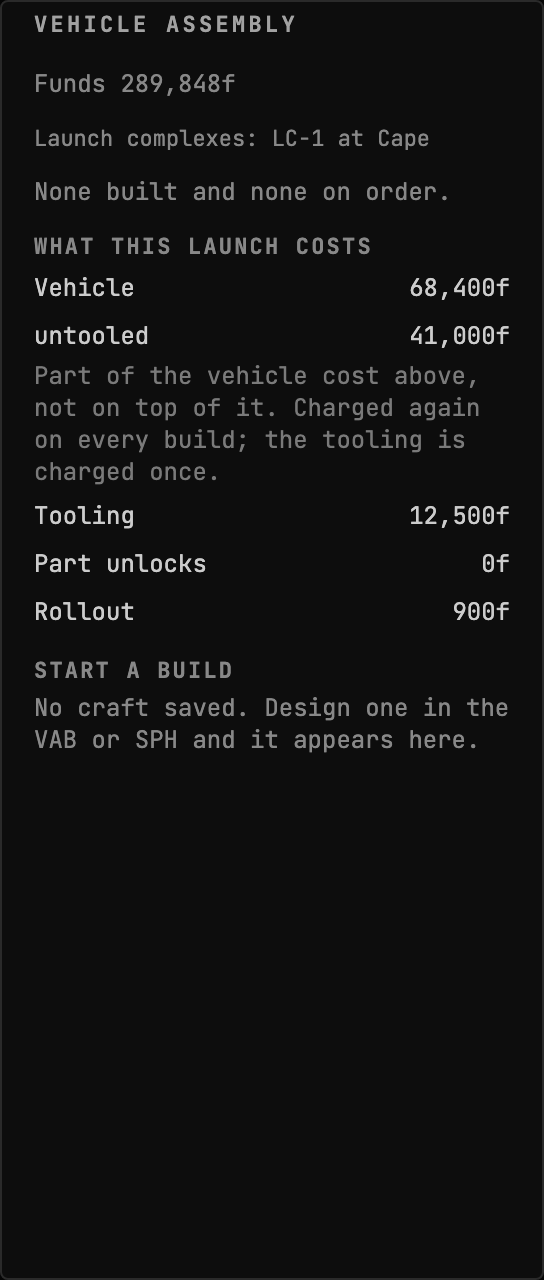
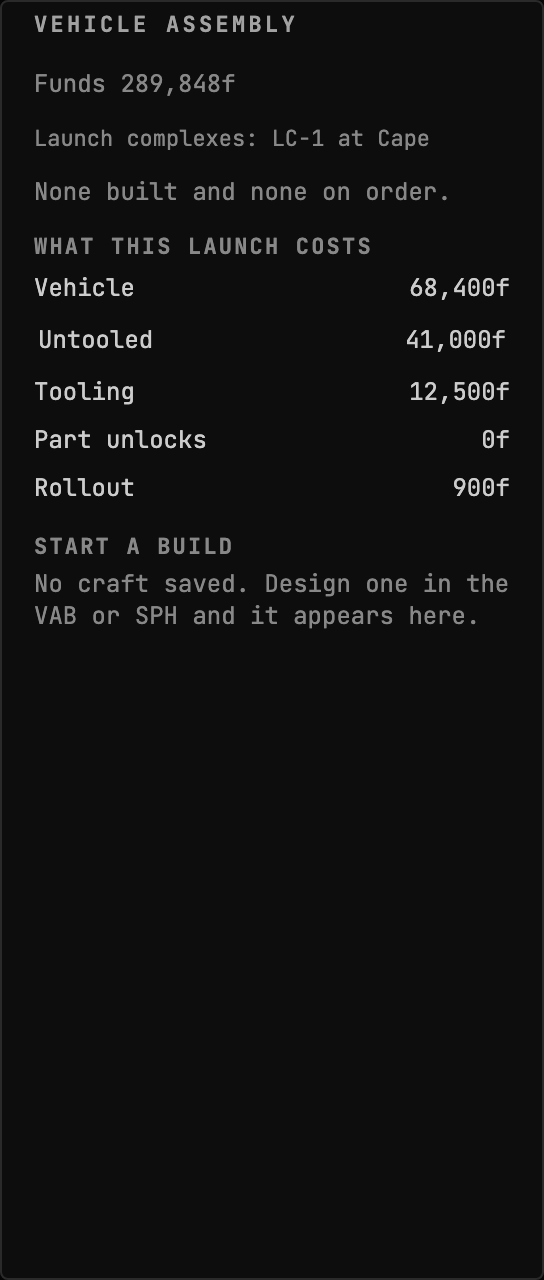
refactor(rp1): draw the of-which as an indent instead of saying it in prose
Operator ruling on the rendered cost section. Both sentences go and the
structure carries what they carried.

An of-which relationship is a TREE, so it is drawn as one: Untooled is indented
under Vehicle. The indent says containment at every size, on every render, in
no language, and it cannot be clipped away the way the label carrying it was.
Prose was simply the wrong instrument for a structural fact, which is a better
answer than the one this section shipped with this morning.

The "charged once while the penalty returns on every build" line was guidance
rather than instrumentation and is gone under the same ruling. This is a
mission control, not a storybook.

Capitalised, because it was the only lowercase line item and read as a
different KIND of thing purely by accident of casing.

The word "Untooled" is RP-1's own and stays. Its code carries
ProcessUntooledParts, GetUntooledPartsAndCost, UntooledMultiplier and a
_untooledTypesScroll region in its own tooling window, so an operator meets the
term in the game before they meet it here; a clearer-sounding synonym would
make two concepts out of one. Said in the doc comment so nobody later improves
it into something less true.

THE INDENT DOES NOT HOLD AT THE WIDGET'S MINIMUM, by two pixels, and the cause
is worth writing down rather than working around: ui-kit's Box pads BOTH sides
and only the left communicates anything, so the waste on the right is exactly
[…]

diff --git a/mod/GonogoRp1Uplink/client/src/VehicleAssembly/BuildCost.tsx b/mod/GonogoRp1Uplink/client/src/VehicleAssembly/BuildCost.tsx
@@ -2,6 +2,7 @@ import type { Value } from "@ksp-gonogo/sitrep-sdk";
 import { registerAugment, useTelemetry } from "@ksp-gonogo/sitrep-sdk";
 import {
   Badge,
+  Box,
   Cluster,
   NULL_DISPLAY,
   Row,
@@ -87,41 +88,37 @@ function CostRow({ name, value }: { name: string; value?: Value<"funds"> }) {
 }
 
 /**
- * The untooled surcharge, drawn as an OF WHICH of the vehicle line above it.
+ * The untooled surcharge, drawn INDENTED under the vehicle cost.
  *
- * <para><b>This is the one row whose placement is load-bearing.</b> The surcharge
- * is already inside the vehicle cost: RP-1's tooling module is an
+ * <para><b>The indent is the whole statement, and it replaced two sentences.</b> The
+ * surcharge is already inside the vehicle cost: RP-1's tooling module is an
  * `IPartCostModifier`, the game folds its contribution into each part's price, and
- * the vehicle figure contains it before it reaches the wire. Drawn as another line
- * in the column it would invite an operator to add it, and the total they arrived
- * at would be more than the launch costs.</para>
+ * the vehicle figure contains it before it reaches the wire. Drawn level with the
+ * other lines it invites an operator to add it, and the total they arrive at is more
+ * than the launch costs.</para>
  *
- * <para>It carries the decision as well as the number. The surcharge is paid on
- * EVERY copy of this vehicle ever built and the tooling above it is paid once, so
- * the badge is the thing that turns two figures into a choice.</para>
+ * <para>That containment used to be said in prose. An of-which relationship is a
+ * TREE, so it is drawn as one: the indent says it at every size, on every render,
+ * without a word, and it cannot be clipped away the way a label was. A sentence was
+ * the wrong instrument for a structural fact.</para>
+ *
+ * <para><b>"Untooled" is RP-1's own word, not ours.</b> Its code carries
+ * `ProcessUntooledParts`, `GetUntooledPartsAndCost`, `UntooledMultiplier` and a
+ * `_untooledTypesScroll` region in its own tooling window, so an operator meets the
+ * term in the game before they meet it here. A clearer-sounding synonym would make
+ * two concepts out of one; leave it alone.</para>
  */
 function SurchargeRow({ cost }: { cost: Rp1BuildCost }) {
   if (cost.untooledSurcharge == null) {
     return null;
   }
   return (
-    /* THE MEANING IS IN THE SENTENCE, NOT THE LABEL, and renders at three sizes
-       are what settled that. The row's name gets 60px at this widget's minimum and
-       "of which untooled" needs 122, so the wording that carries the whole point
-       was clipped away exactly where the widget is hardest to read. A short label
-       and a full-width line below it cannot clip, and the line can say more than a
-       label had room to: that this is part of the figure above rather than extra,
-       and that it returns on every build while the tooling does not. */
-    <Stack gap="xs" data-of-which="">
+    <Box pad={["xs", "xs"]} data-of-which="">
       <Row as="div">
-        <RowName>untooled</RowName>
+        <RowName>Untooled</RowName>
         <Unit value={cost.untooledSurcharge} decimals={0} />
       </Row>
-      <Text tone="faint" size="sm">
-        Part of the vehicle cost above, not on top of it. Charged again on every
-        build; the tooling is charged once.
-      </Text>
-    </Stack>
+    </Box>
   );
 }
 

diff --git a/mod/GonogoRp1Uplink/client/src/VehicleAssembly/buildCost.test.tsx b/mod/GonogoRp1Uplink/client/src/VehicleAssembly/buildCost.test.tsx
@@ -99,17 +99,30 @@ describe("BuildCostSection: funds, and only funds", () => {
   });
 
   /**
-   * The assertion the whole section is shaped around. The surcharge is INSIDE the
-   * vehicle cost, so the wording has to say so: an operator who reads the column
-   * as a sum arrives at a number larger than the launch costs.
+   * The containment is STRUCTURAL, so this asserts the structure rather than a
+   * sentence. The surcharge is inside the vehicle cost, and an operator who reads
+   * the column as a sum arrives at more than the launch costs; the indent is what
+   * stops that, on every render and at every size, where prose was clipped away at
+   * the narrow ones.
+   *
+   * <para>Asserted through the marker the indent container carries rather than
+   * through a class or a pixel offset: the test should fail if the row stops being
+   * SUBORDINATE, not if the design system changes how far it insets.</para>
    */
-  it("says the surcharge is part of the vehicle cost rather than on top of it", async () => {
+  it("nests the surcharge under the vehicle cost rather than beside it", async () => {
     const stream = mount();
 
     emit(stream, PRICED);
+    await screen.findByText("Untooled");
 
-    expect(await screen.findByText(/untooled/)).toBeInTheDocument();
-    expect(visibleText(stream.container)).toContain("not on top of it");
+    const nested = stream.container.querySelector("[data-of-which]");
+    expect(nested).not.toBeNull();
+    expect(nested?.textContent).toContain("Untooled");
+
+    // And the prose it replaced is gone, so a later edit cannot quietly put a
+    // sentence back beside the structure that now carries the meaning.
+    expect(visibleText(stream.container)).not.toContain("not on top of it");
+    expect(visibleText(stream.container)).not.toContain("charged once");
   });
 
   /**

diff --git a/mod/GonogoRp1Uplink/client/README.md b/mod/GonogoRp1Uplink/client/README.md
@@ -164,9 +164,7 @@ Every craft RP-1 is integrating, holding or could start, across every launch com
 
 ![The same widget at 18 × 5](docs/assets/build-cost-absences-and-tech-gate--landscape-18x5.png)
 
-![Most of what this vehicle costs is the penalty for flying it untooled, and the tooling that removes it is cheaper than one build of the penalty](docs/assets/build-cost-mostly-surcharge--default.png)
-
-![The same widget at its minimum size](docs/assets/build-cost-mostly-surcharge--min.png)
+![Most of what this vehicle costs is the penalty for flying it untooled: the indent says that figure is part of the one above rather than added to it](docs/assets/build-cost-mostly-surcharge--default.png)
 
 ![The same widget at 9 × 8](docs/assets/build-cost-mostly-surcharge--mobile-9x8.png)
 
